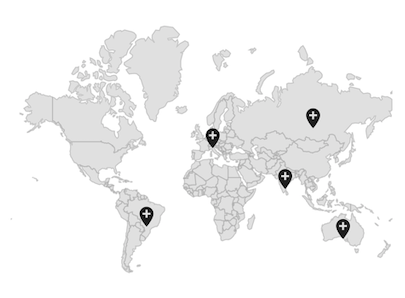
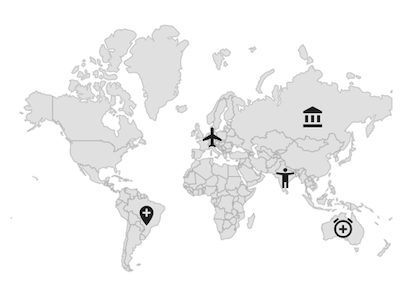
FLUT-1282-[feature][flutter]: modified marker image

diff --git a/Flutter/maps/markers.md b/Flutter/maps/markers.md
@@ -82,61 +82,69 @@ class Model {
 You can show custom marker using the [child] property of the [MapMarker] which returns from [markerBuilder] property in the [MapShapeLayer].
 
 ```dart
- List<Model> data;
+List<Model> data;
+List<Widget> iconsList;
 
-  @override
-  void initState() {
-    data = const <Model>[
-      Model('Brazil', -14.235004, -51.92528),
-      Model('Germany', 51.16569, 10.451526),
-      Model('Australia', -25.274398, 133.775136),
-      Model('India', 20.593684, 78.96288),
-      Model('Russia', 61.52401, 105.318756)
-    ];
+@override
+void initState() {
+     data = <Model>[
+       Model(-14.235004, -51.92528),
+       Model(51.16569, 10.451526),
+       Model(-25.274398, 133.775136),
+       Model(20.593684, 78.96288),
+       Model(61.52401, 105.318756)
+     ];
 
-    super.initState();
+     iconsList = <Widget>[
+       Icon(Icons.add_location),
+       Icon(Icons.airplanemode_active),
+       Icon(Icons.add_alarm),
+       Icon(Icons.accessibility_new),
+       Icon(Icons.account_balance)
+     ];
+
+     super.initState();
+}
+
+@override
+Widget build(BuildContext context) {
+     return Scaffold(
+       body: Center(
+           child: Container(
+             height: 350,
+             child: Padding(
+               padding: EdgeInsets.only(left: 15, right: 15),
+               child: SfMaps(
+                 layers: <MapLayer>[
+                   MapShapeLayer(
+                     delegate: MapShapeLayerDelegate(
+                       shapeFile: 'assets/world_map.json',
+                       shapeDataField: 'name',
+                       dataCount: data.length,
+                     ),
+                     initialMarkersCount: 5,
+                     markerBuilder: (_, int index){
+                       return MapMarker(
+                         latitude: data[index].latitude,
+                         longitude: data[index].longitude,
+                         child: iconsList[index],
+                       );
+                     },
+                   ),
+                 ],
+               ),
+             ),
+           )
+       ),
+     );
   }
-
-  @override
-  Widget build(BuildContext context) {
-    return Scaffold(
-      body: Center(
-          child: Container(
-            height: 350,
-            child: Padding(
-              padding: EdgeInsets.only(left: 15, right: 15),
-              child: SfMaps(
-                layers: <MapLayer>[
-                  MapShapeLayer(
-                    delegate: MapShapeLayerDelegate(
-                      shapeFile: 'assets/world_map.json',
-                      shapeDataField: 'name',
-                      dataCount: data.length,
-                      primaryValueMapper: (index) => data[index].country,
-                    ),
-                    initialMarkersCount: 5,
-                    markerBuilder: (_, int index){
-                      return MapMarker(
-                        latitude: data[index].latitude,
-                        longitude: data[index].longitude,
-                        child: Icon(Icons.add_location),
-                      );
-                    },
-                  ),
-                ],
-              ),
-            ),
-          )
-      ),
-    );
- }
+}
 
 class Model {
-  const Model(this.country, this.latitude, this.longitude);
+   Model(this.latitude, this.longitude);
 
-  final String country;
-  final double latitude;
-  final double longitude;
+   final double latitude;
+   final double longitude;
 }
 ```
 
